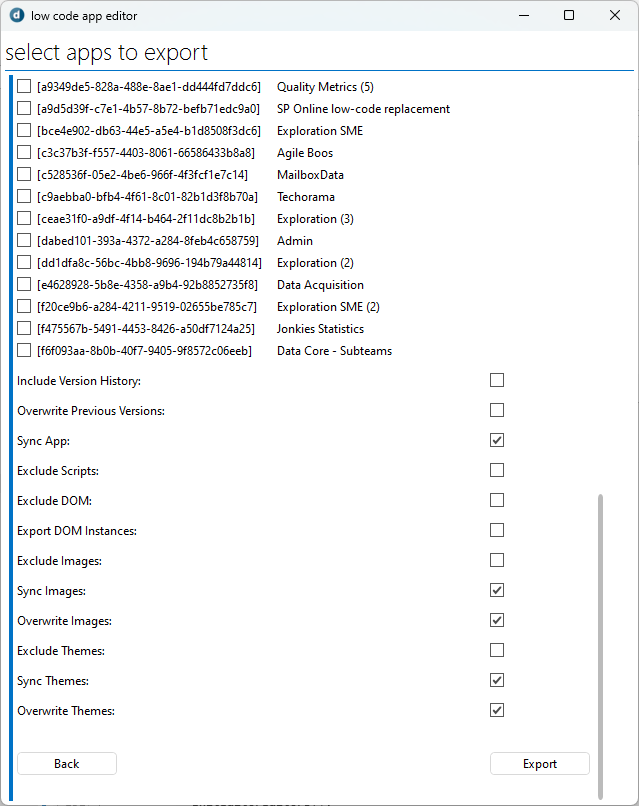
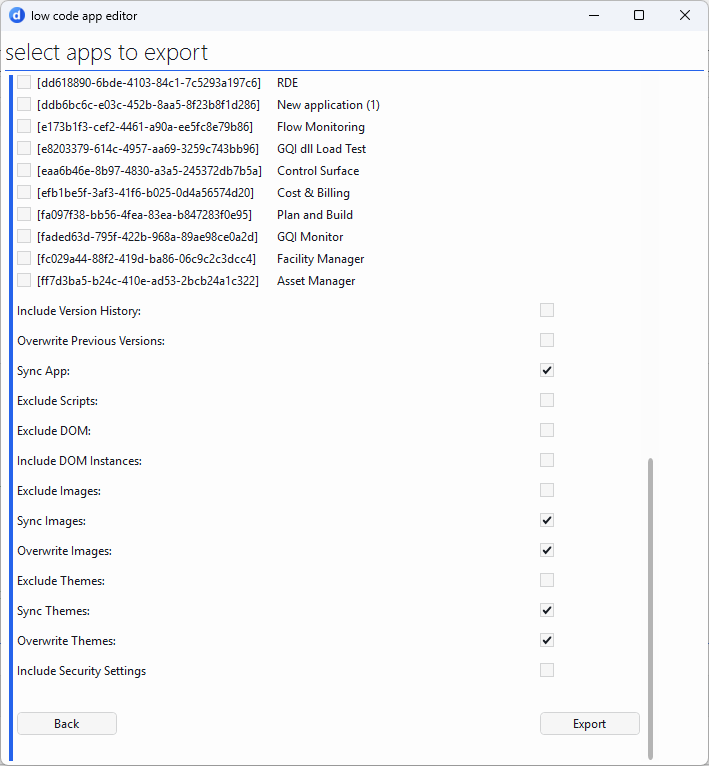
readme update

diff --git a/README.md b/README.md
@@ -109,6 +109,9 @@ This options will sync the themes.json file across the DMS
 
 This options will overwrite the existing themes if there are already matching themes found. The matching is based on the theme name.
 
+##### 13. Include Security Settings
+
+When enabled this will keep the Security settings of the app. By default it is disabled because the editor cannot be sure the exact users and groups exists on the importing system. In case you know that both systems match, then you can enable it and the exporter will keep the settings as they are.
 
 #### Overview of included items
  - Custom operators